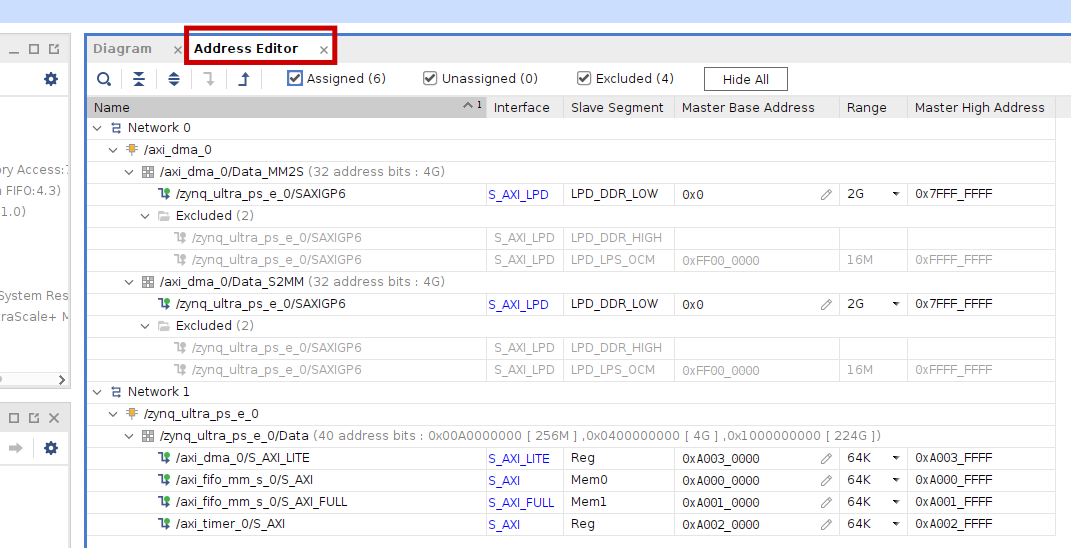
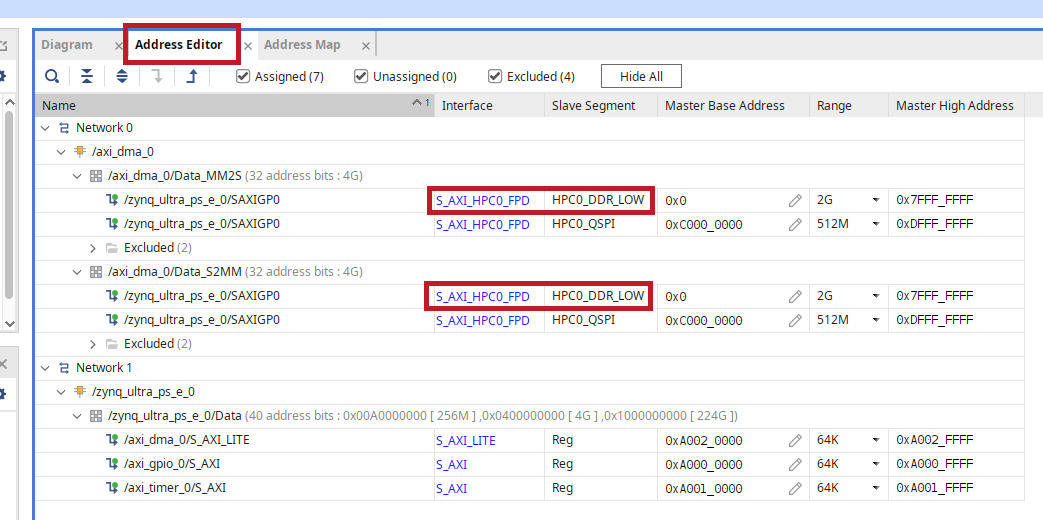
some edits to screenshorts

diff --git a/docs/Assignment_2/4_DMA.md b/docs/Assignment_2/4_DMA.md
@@ -6,7 +6,11 @@ When using AXI DMA, the processor only supplies (via AXI Lite, not AXI Stream) t
 
 Here, we will be using the Xilinx AXI DMA IP as the module that connects the coprocessor to the rest of the system. You can find the specification of AXI DMA here: <http://www.xilinx.com/support/documentation/ip_documentation/axi_dma/v7_1/pg021_axi_dma.pdf>
 
-You can start with a new project, or from the existing project. Since most of you would be reaching this step from the existing project which would have the coprocessor connected using AXI Stream FIFO. In the future, if you are starting a new project and plan to use AXI DMA, you need not have AXI Stream FIFO in your design at all. It is also fine to delete AXI Stream FIFO from the project (instructions later), which can save some hardware and synthesis time. On this page, however, we keep the AXI Stream FIFO and connect it in loopback mode, rendering it vestigial.
+You can start with a new project, or from the existing project. Since most of you would be reaching this step from the existing project which would have the coprocessor connected using AXI Stream FIFO. In the future, if you are starting a new project and plan to use AXI DMA, you need not have AXI Stream FIFO in your design at all. It is also fine to delete AXI Stream FIFO from the project (instructions later), which can save some hardware and synthesis time. 
+
+It is perfectly fine to retain AXI Stream FIFO + coprocessor, and use another instance of the coprocessor for DMA, if you are doing a combined design, i.e., a single design with FIFO-connected coprocessor + one or more DMA connected coprocessors.
+
+On this page, however, we keep the AXI Stream FIFO and connect it in loopback mode, rendering it vestigial.
 
 The following instructions also assume that the coprocessor is already added/available in the IP Integrator canvas. If not, add it from the IP Catalog.
 
@@ -24,8 +28,7 @@ Alternative: Delete the AXI Stream FIFO peripheral altogether. This can be done 
 
 This can cause some existing AXI slave connections to be broken (e.g., M0x_AXI of the AXI Interconnect to S_AXI of the peripheral), which can be easily fixed by obliging to the connection automation prompt.
 
-Connecting the Coprocessor using DMA
-------------------------------------
+## Connecting the Coprocessor using DMA
 
 From the IP catalog, add the peripheral titled AXI Direct Memory Access. Double-click it, uncheck Enable Scatter Gather Engine, and click OK. It will look like the figure below.
 
@@ -39,11 +42,11 @@ S2MM : When data has to be received from the coprocessor, the ARM core specifies
 
 First, make the M_AXIS_MM2S <->S_AXIS and M_AXIS <-> S_AXIS_S2MM connections to connect the coprocessor/myip and the DMA. You can now run connection automation, which will connect ACLK and ARESETN of myip.
 
-The DDR memory controller is implemented in the PS, which requires a slave AXI interface in PS to receive the address and read/write commands from the AXI DMA master interfaces, i.e., M_AXI_S2MM and M_AXI_MM2S. For this, we need to enable one of the Slave Interface > AXI HP (let's say, AXI LPD) in the PS-PL configuration of the Zynq Ultrascale+ MPSoC IP/zynq_ultra_ps_e_0. Double click the Zynq PS IP > PS-PL Configuration> Slave Interface > AXI HP > AXI LPD and then OK. A new interface called S_AXI_LPD will appear on the Zynq Ultrascale+ MPSoC IP block diagram in the IP Integrator canvas.
+The DDR memory controller is implemented in the PS, which requires a slave AXI interface in PS to receive the address and read/write commands from the AXI DMA master interfaces, i.e., M_AXI_S2MM and M_AXI_MM2S. For this, we need to enable one of the Slave Interface > AXI HP (let's say, AXI HPC0 FPD) in the PS-PL configuration of the Zynq Ultrascale+ MPSoC IP/zynq_ultra_ps_e_0. Double click the Zynq PS IP > PS-PL Configuration> Slave Interface > AXI HP > AXI HPC0 FPD and then OK. A new interface called S_AXI_HPC0_FPD will appear on the Zynq Ultrascale+ MPSoC IP block diagram in the IP Integrator canvas.
 
 ![image.png](DMA/DMA_MPSoCPSPL.png)
 
-We now need to connect M_AXI_S2MM and M_AXI_MM2S to S_AXI_LPD. This will have to be done using an AXI Interconnect*or AXI SmartConnect*. This can be done through connection automation twice. When you run the connection automation once, it will make only one connection - M_AXI_MM2S→ S_AXI_LPD (if M_AXI_MM2S is selected in Options > Master Interface in the connection automation dialog), and the corresponding m_axi_mm2s_aclk. The connection automation banner will still be there. Run connection automation again. This time, it will add an interconnect and make the M_AXI_S2MM→ S_AXI_LPD, as well as the m_axi_s2mm_aclk connection.
+We now need to connect M_AXI_S2MM and M_AXI_MM2S to S_AXI_HPC0_FPD. This will have to be done using an AXI Interconnect*or AXI SmartConnect*. This can be done through connection automation twice. When you run the connection automation once, it will make only one connection - M_AXI_MM2S→ S_AXI_HPC0_FPD (if M_AXI_MM2S is selected in Options > Master Interface in the connection automation dialog), and the corresponding m_axi_mm2s_aclk. The connection automation banner will still be there. Run connection automation again. This time, it will add an interconnect and make the M_AXI_S2MM→ S_AXI_HPC0_FPD, as well as the m_axi_s2mm_aclk connection.
 
 *Note: AXI Interconnect and AXI SmartConnect are functionally similar. The latter is newer and more optimized, though the connection automation does not always include it.
 
@@ -53,7 +56,7 @@ Overall, the connections should be as shown below, at least those relevant to AX
 
 Have a look at the Address Editor tab too. It should generally be fine as long the AXI (not AXIS - AXIS connections were done manually anyway and have no concept of addresses/memory map) connections are done via connection automation. If there were any manual modifications you made to AXI connections, appropriate manual modifications may be needed here.
 
-In particular, ensure that in which zynq_ultra_ps_e_0 is the master, all S_AXIs are given proper, non-conflicting addresses. Also, ensure that in the network where axi_dma_0 is the master, S_AXI_LPD with the slave segment LPD_DDR_LOW is included (i.e., not excluded) for both axi_dma_0/Data_MM2S as well as axi_dma_0/Data_S2MM. This is to ensure that the AXI DMA peripheral can read as well as write (respectively) the DDR memory.
+In particular, ensure that in which zynq_ultra_ps_e_0 is the master, all S_AXIs are given proper, non-conflicting addresses. Also, ensure that in the network where axi_dma_0 is the master, S_AXI_HPC0_FPD with the slave segment HPC0_DDR_LOW is included (i.e., not excluded) for both axi_dma_0/Data_MM2S as well as axi_dma_0/Data_S2MM. This is to ensure that the AXI DMA peripheral can read as well as write (respectively) the DDR memory.
 
 ![image.png](DMA/DMA_Address.png)
 

diff --git a/docs/Assignment_2/1_HLSIntro.md b/docs/Assignment_2/1_HLSIntro.md
@@ -3,6 +3,9 @@
 !!! success "Final"
     This assignment description is now complete. There could still be minor updates, which will be <span style="color: brown;">highlighted</span>. 
 
+!!! warning "Follow the Spirit"
+    Some screenshots may be taken on other versions of Vivado/Vitis or for other configurations. The instructions could also vary slightly depending on the exact design/configuration you follow - such as whether you have separate or combined designs with multiple coprocessors / interfacing method (DMA/FIFO). The spirit of the instructions remain the same. Understand the significance of each step rather than following it mechanically.
+
 ## Introduction to High-level synthesis
 
 High-level synthesis transforms C functions into hardware IPs.
